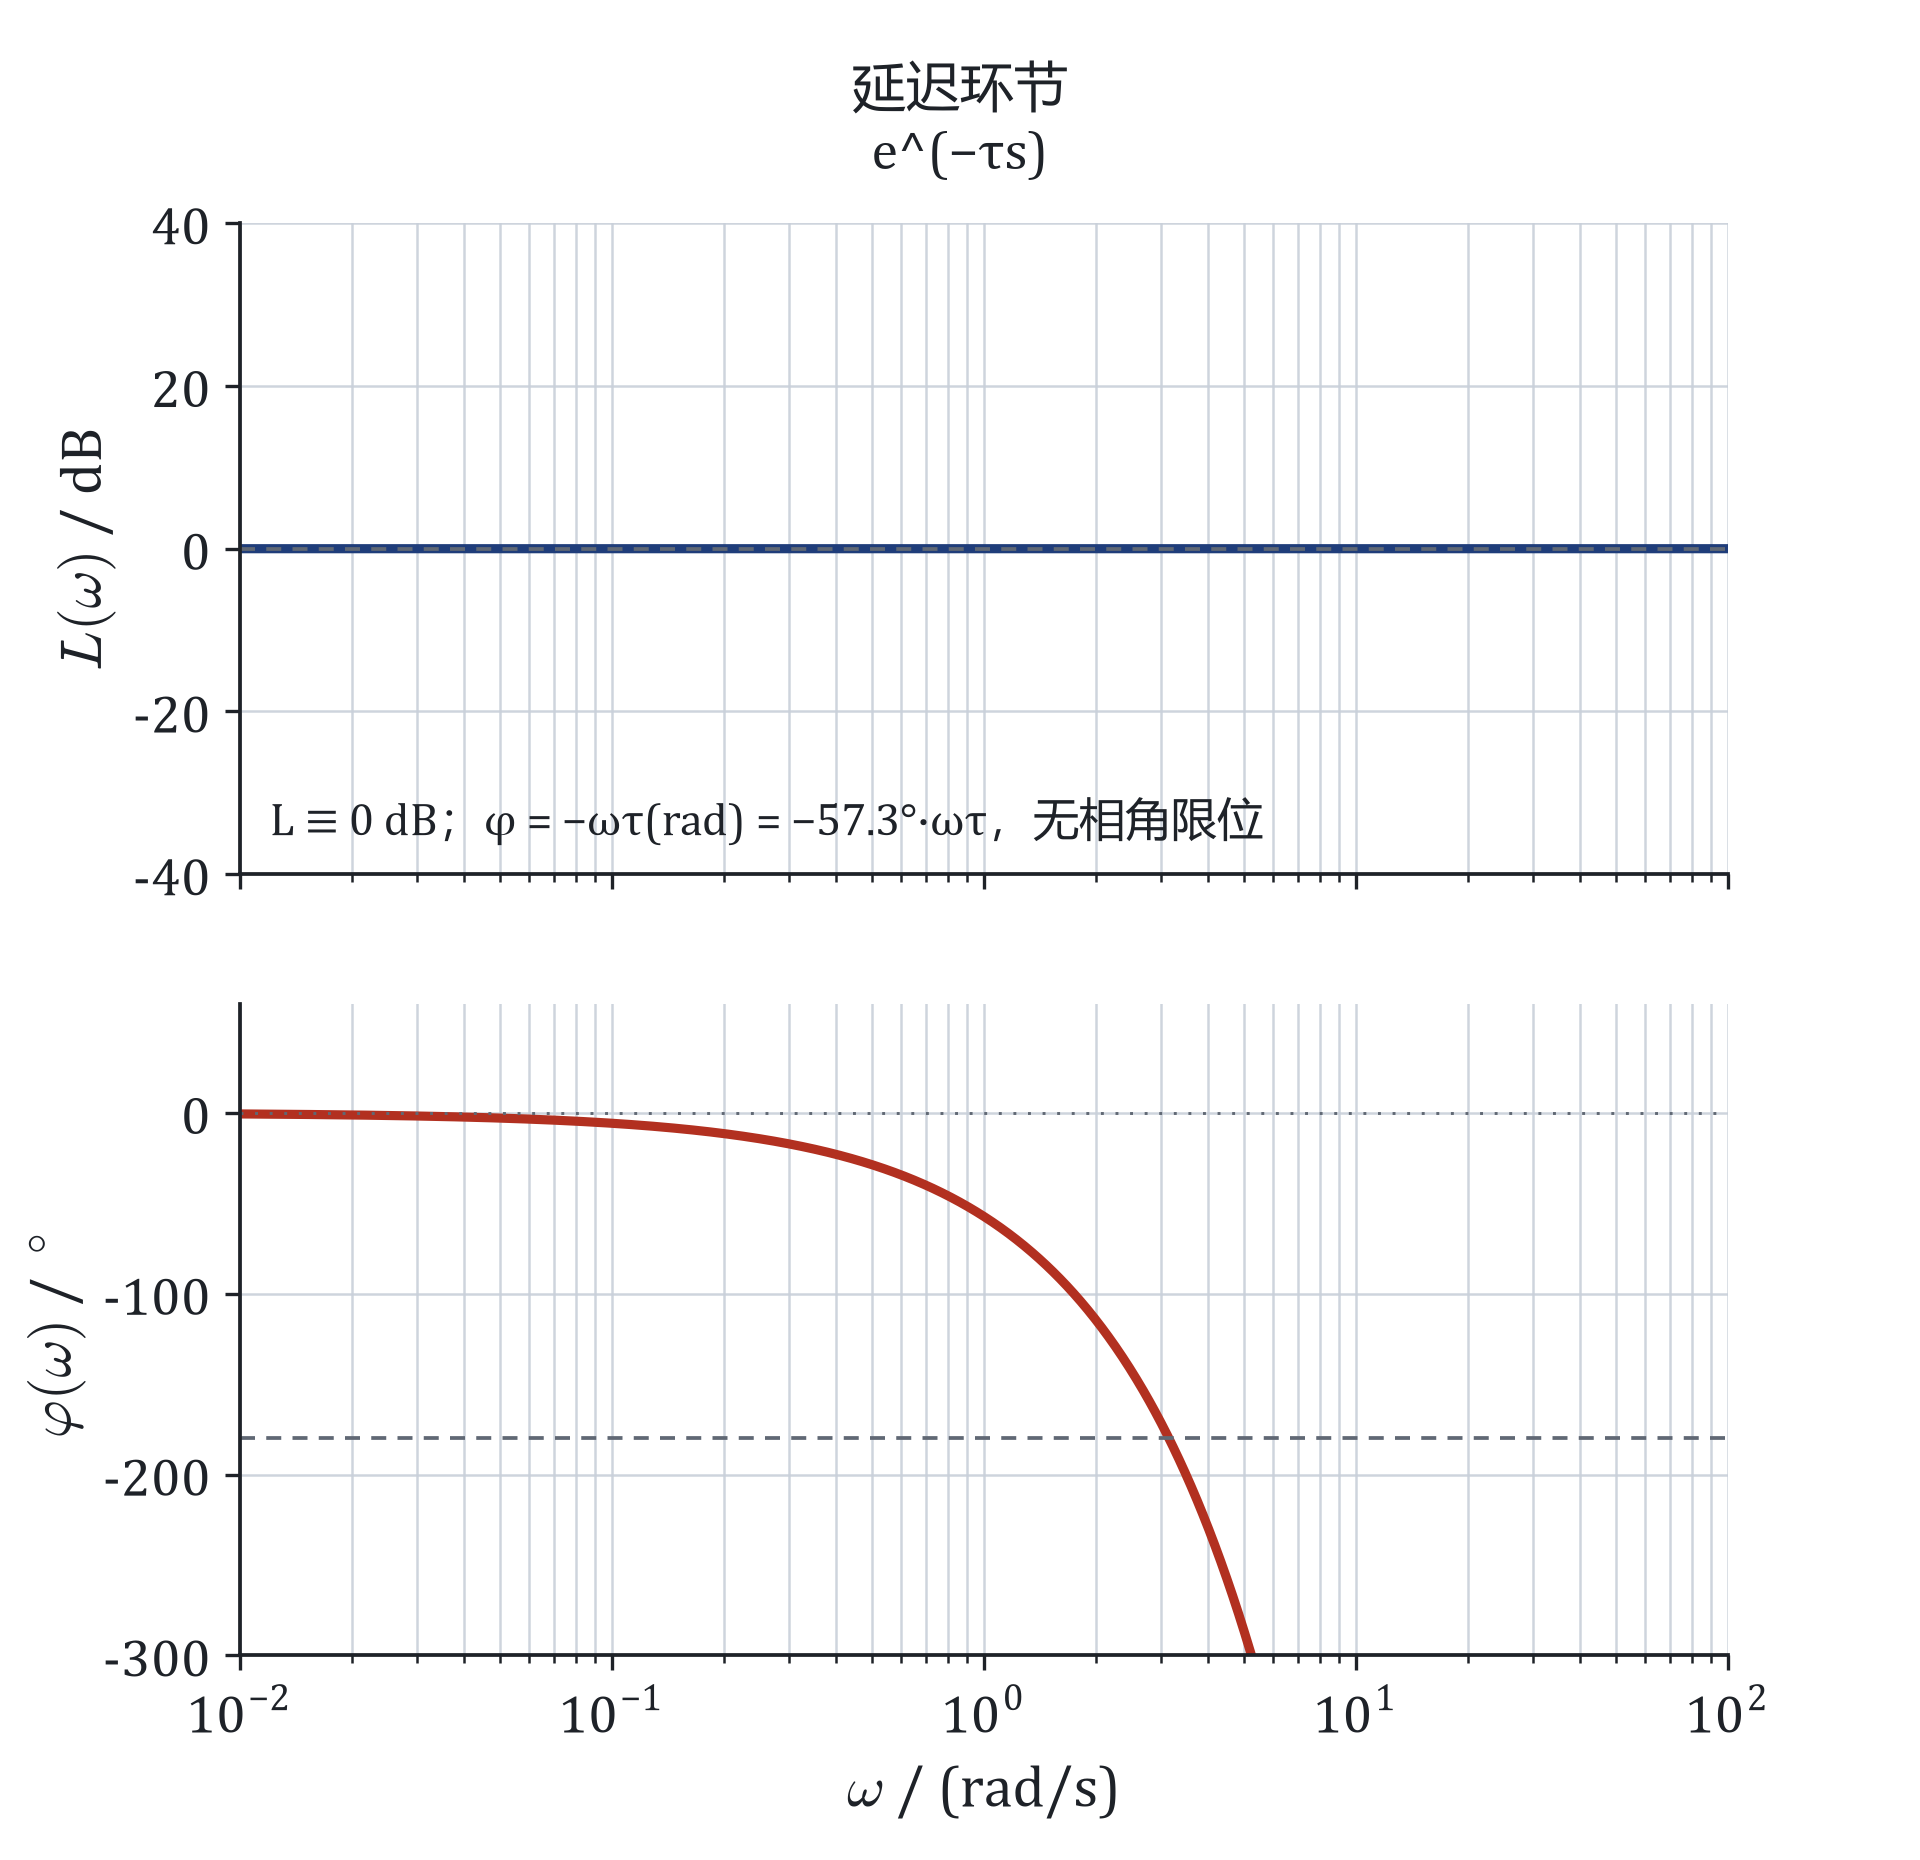
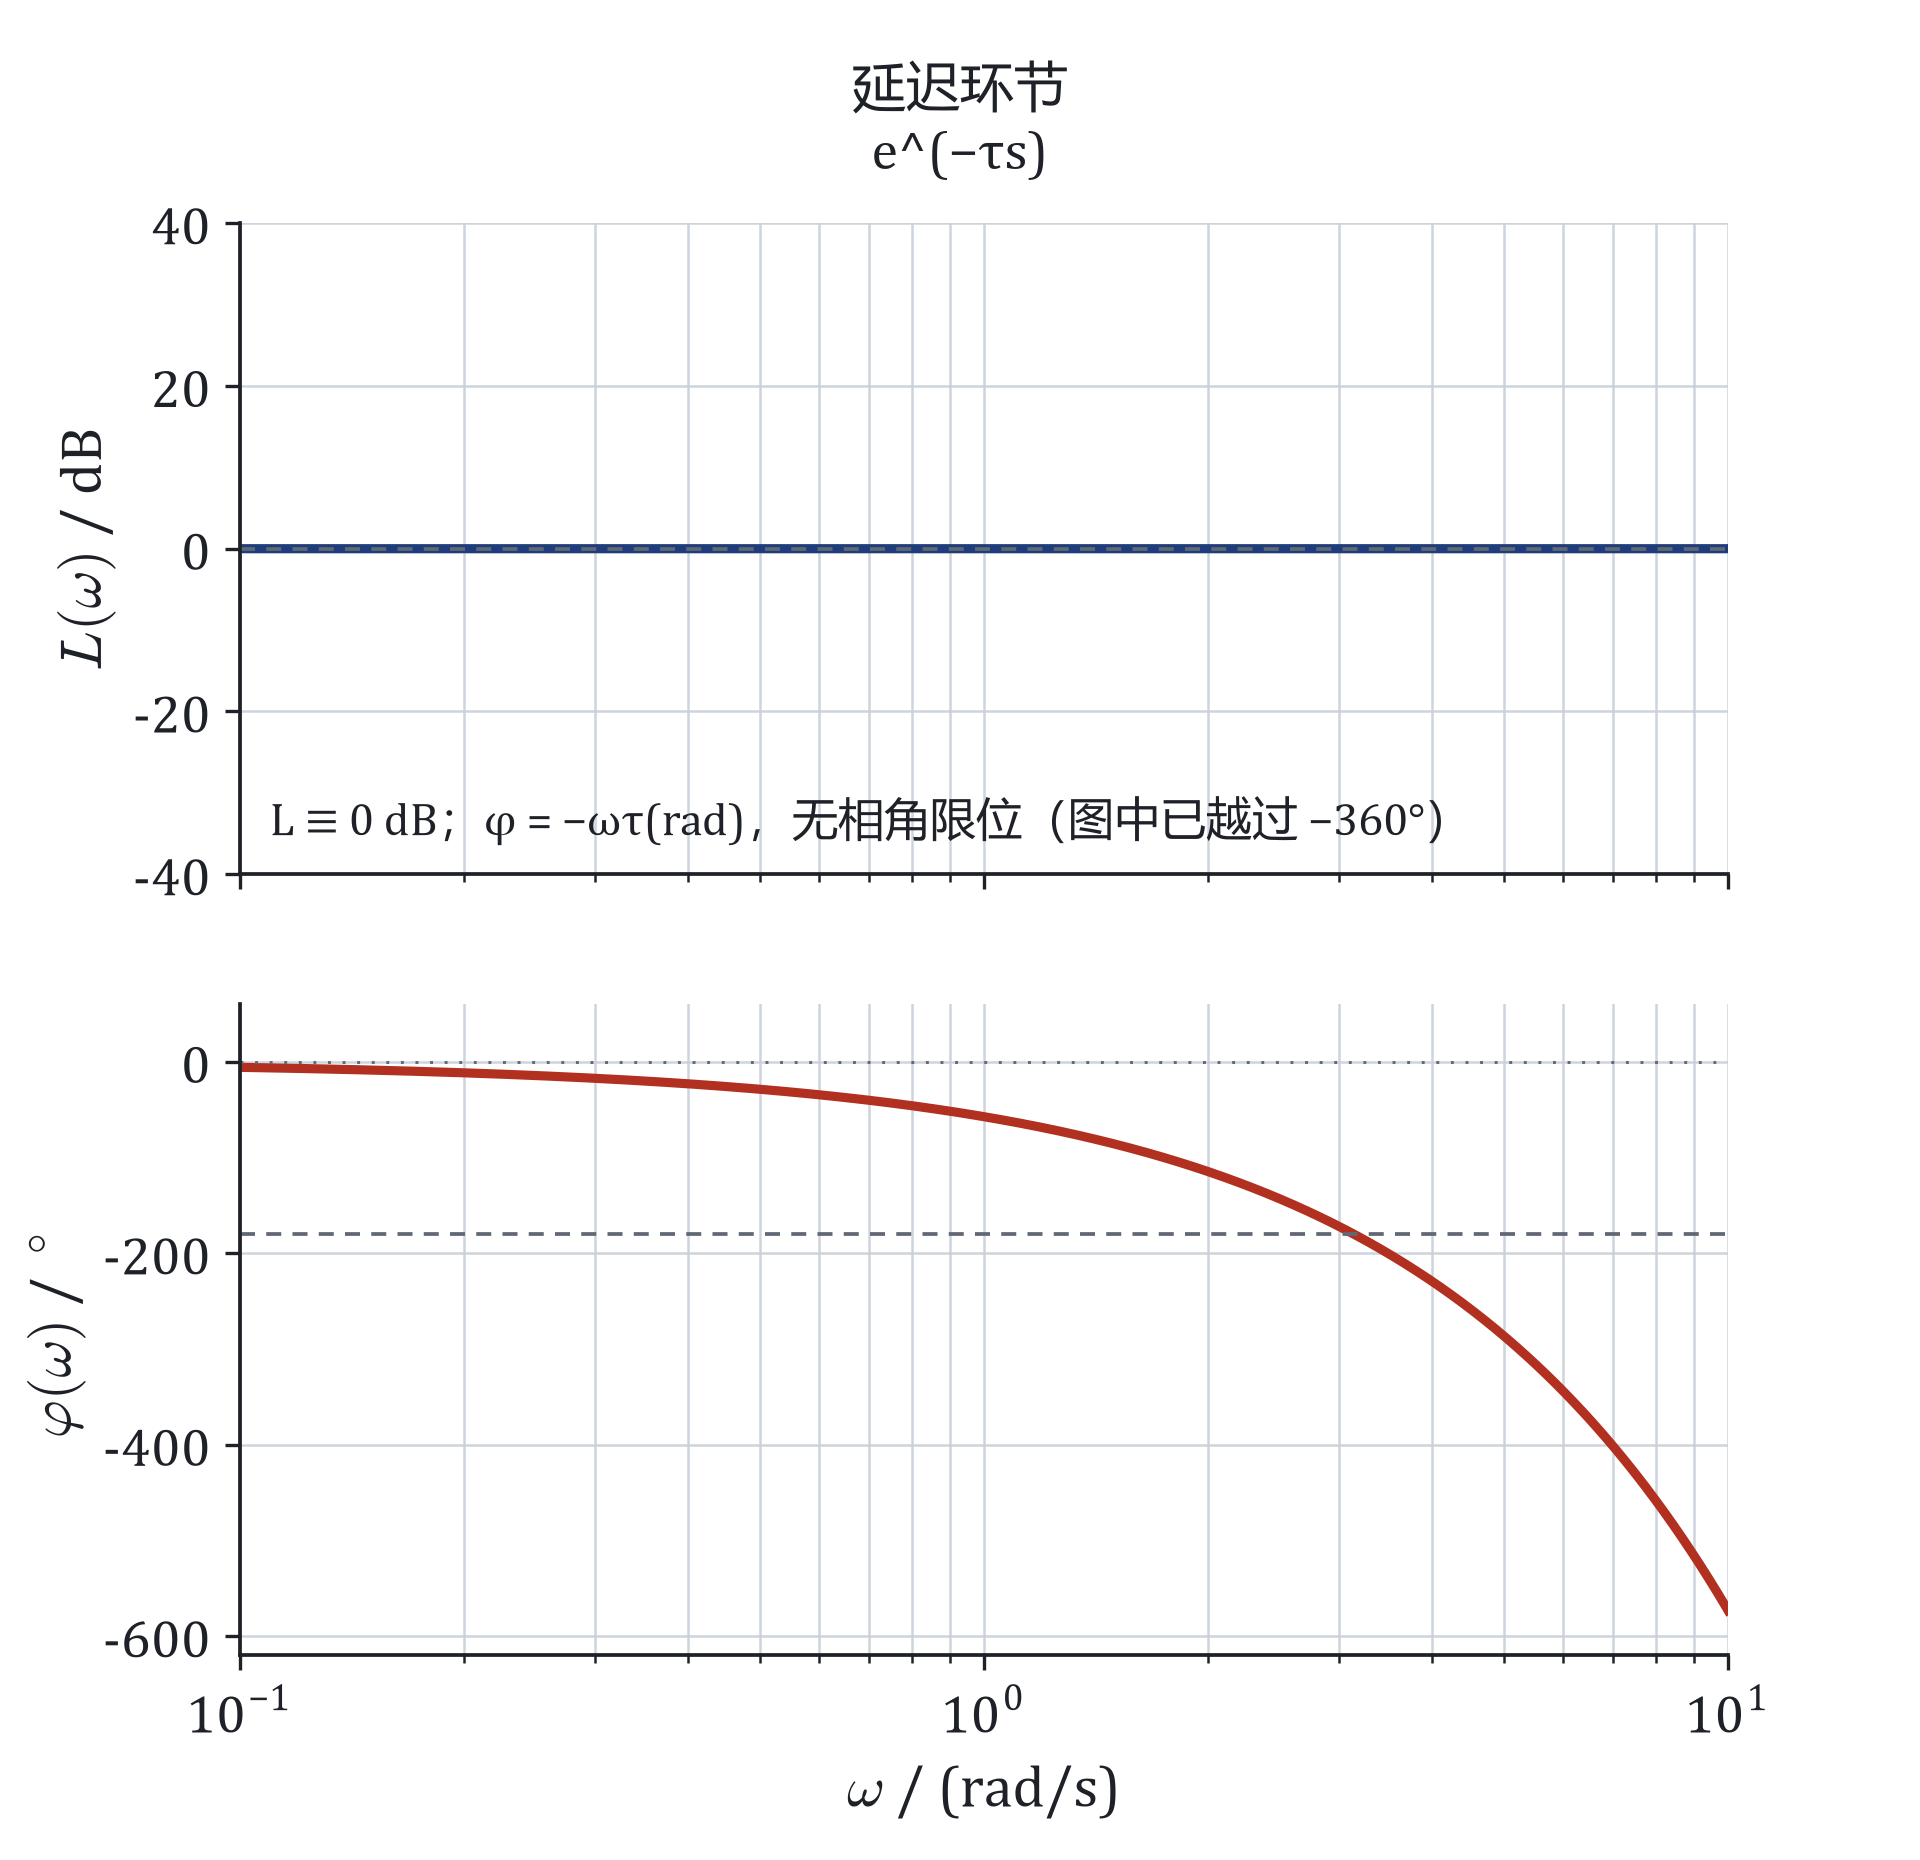
fix(图): 延迟环节与例5-12伯德图纵轴裁切
延迟相频到 -5730° 而轴只到 -300°，频率轴收到 10 rad/s、纵轴留到 -620°；例5-12 幅频跌到 -108 dB，纵轴放宽到 -75 dB。

diff --git a/.scripts/figures/bode-typical-links.py b/.scripts/figures/bode-typical-links.py
@@ -95,10 +95,12 @@ emit("频域-典型环节-二阶微分Bode.png", "二阶微分环节\ns²/ωn²+
      asymptote=([W1[0], 1, W1[-1]], [0, 0, 40]),
      note="转折频率 ωn = 1：φ = +90°、L = 20lg(2ζ)；本例 ζ = 0.5")
 
-# 8 延迟 τ = 1
-emit("频域-典型环节-延迟Bode.png", "延迟环节\ne^(−τs)", W,
-     np.zeros_like(W), -np.degrees(W), (-40, 40), (-300, 60),
-     note="L ≡ 0 dB；φ = −ωτ(rad) = −57.3°·ωτ，无相角限位")
+# 8 延迟 τ = 1：相角 −57.3°·ω 无界，频率轴取到 10 rad/s、纵轴留到 −620°，
+#   曲线全程可见并明显越出 −360°（证明"无相角限位"），不能取到 ω=100 后被裁平
+WD = np.logspace(-1, 1, 1500)
+emit("频域-典型环节-延迟Bode.png", "延迟环节\ne^(−τs)", WD,
+     np.zeros_like(WD), -np.degrees(WD), (-40, 40), (-620, 60),
+     note="L ≡ 0 dB；φ = −ωτ(rad)，无相角限位（图中已越过 −360°）")
 
 # 9 不稳定惯性（非最小相位）G = 1/(1−Ts)，T = 1：幅频与惯性相同、相频反号
 mag_u = -10 * np.log10(1 + W1 ** 2)

diff --git a/.scripts/figures/ch5-legacy-bode.py b/.scripts/figures/ch5-legacy-bode.py
@@ -62,9 +62,10 @@ axp.annotate("两种 K 的相频相同", xy=(0.02, 0.06), xycoords="axes fractio
              color=fs.SUB, fontsize=10.5)
 axm.axhline(0, color=fs.SUB, linewidth=0.9, linestyle=(0, (4, 3)))
 axp.axhline(-180, color=fs.SUB, linewidth=0.9, linestyle=(0, (4, 3)))
-axm.set_ylim(-45, 25)
-axp.set_ylim(-300, -60)
-axp.set_yticks([-270, -180, -90])
+# 三条重极点使高频幅值跌到 -108 dB、相频到 -270°，纵轴必须留够，否则曲线被压平在边界
+axm.set_ylim(-75, 25)
+axp.set_ylim(-300, 0)
+axp.set_yticks([-270, -180, -90, 0])
 axm.legend(loc="lower left", fontsize=11)
 fig.suptitle("例5-12  G = K/(s+1)³：K = 4 与 K = 10", fontsize=13, y=0.97)
 save(fig, "伯德-例512.png")
